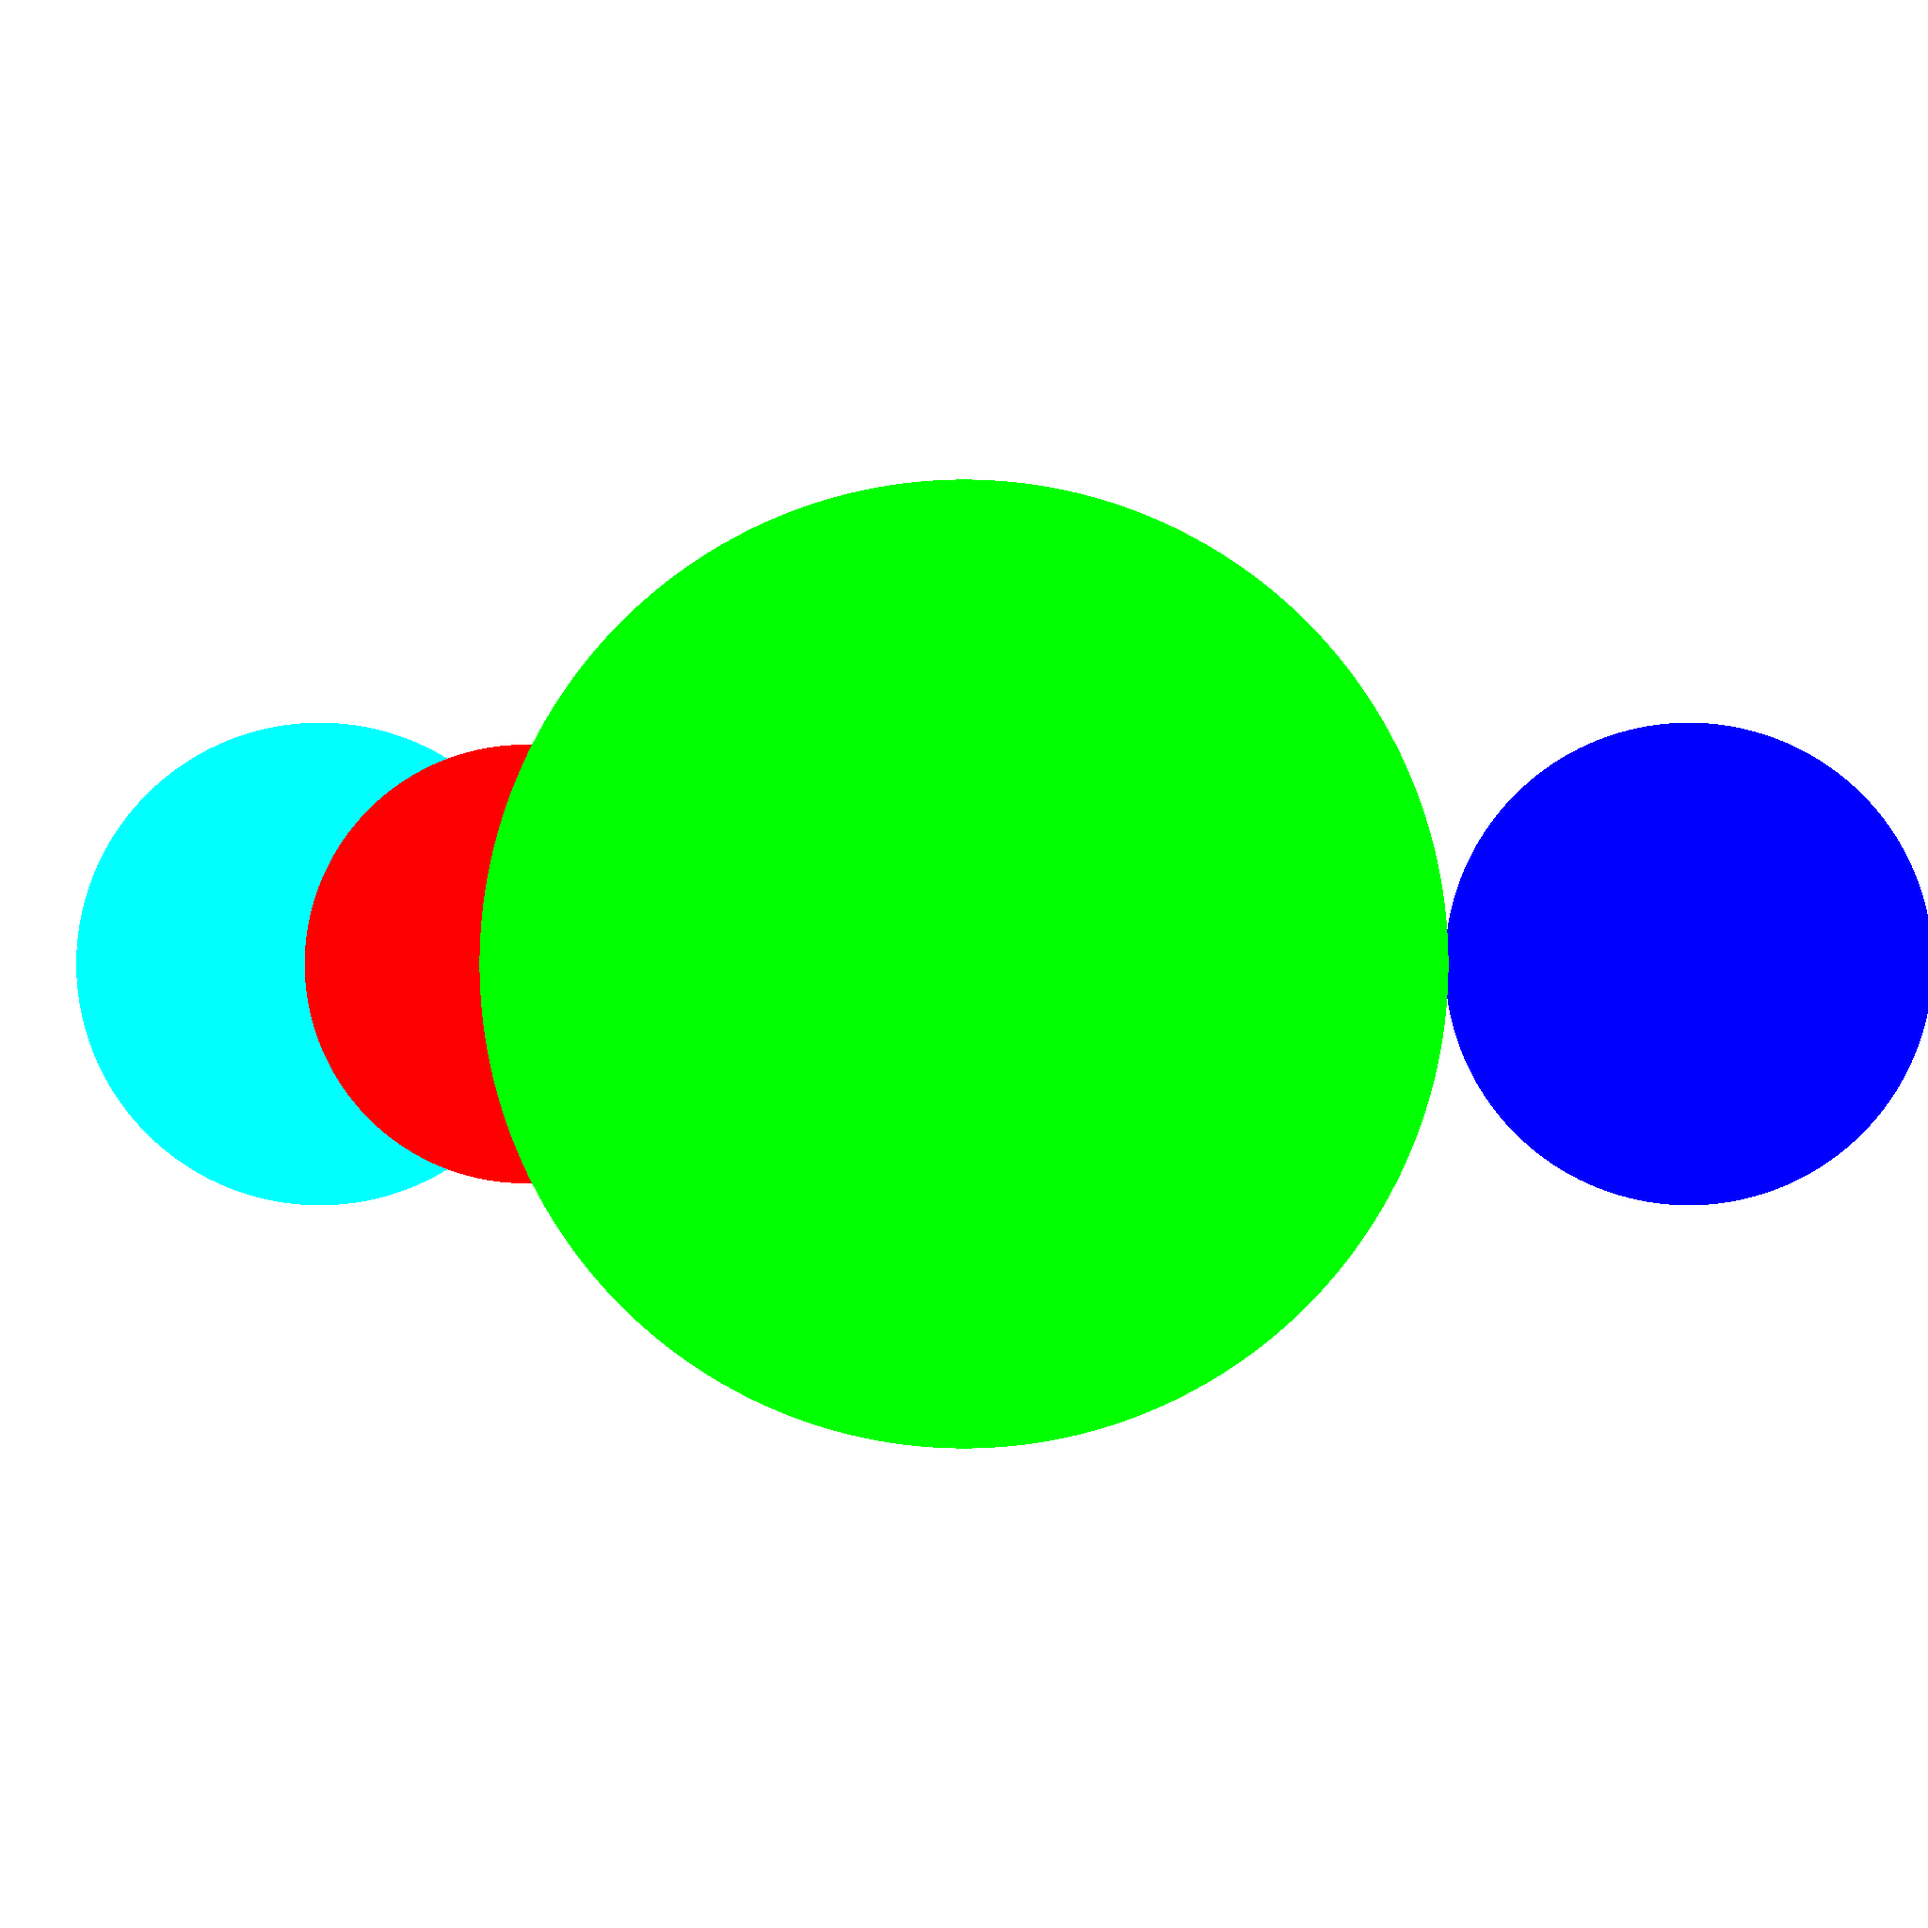
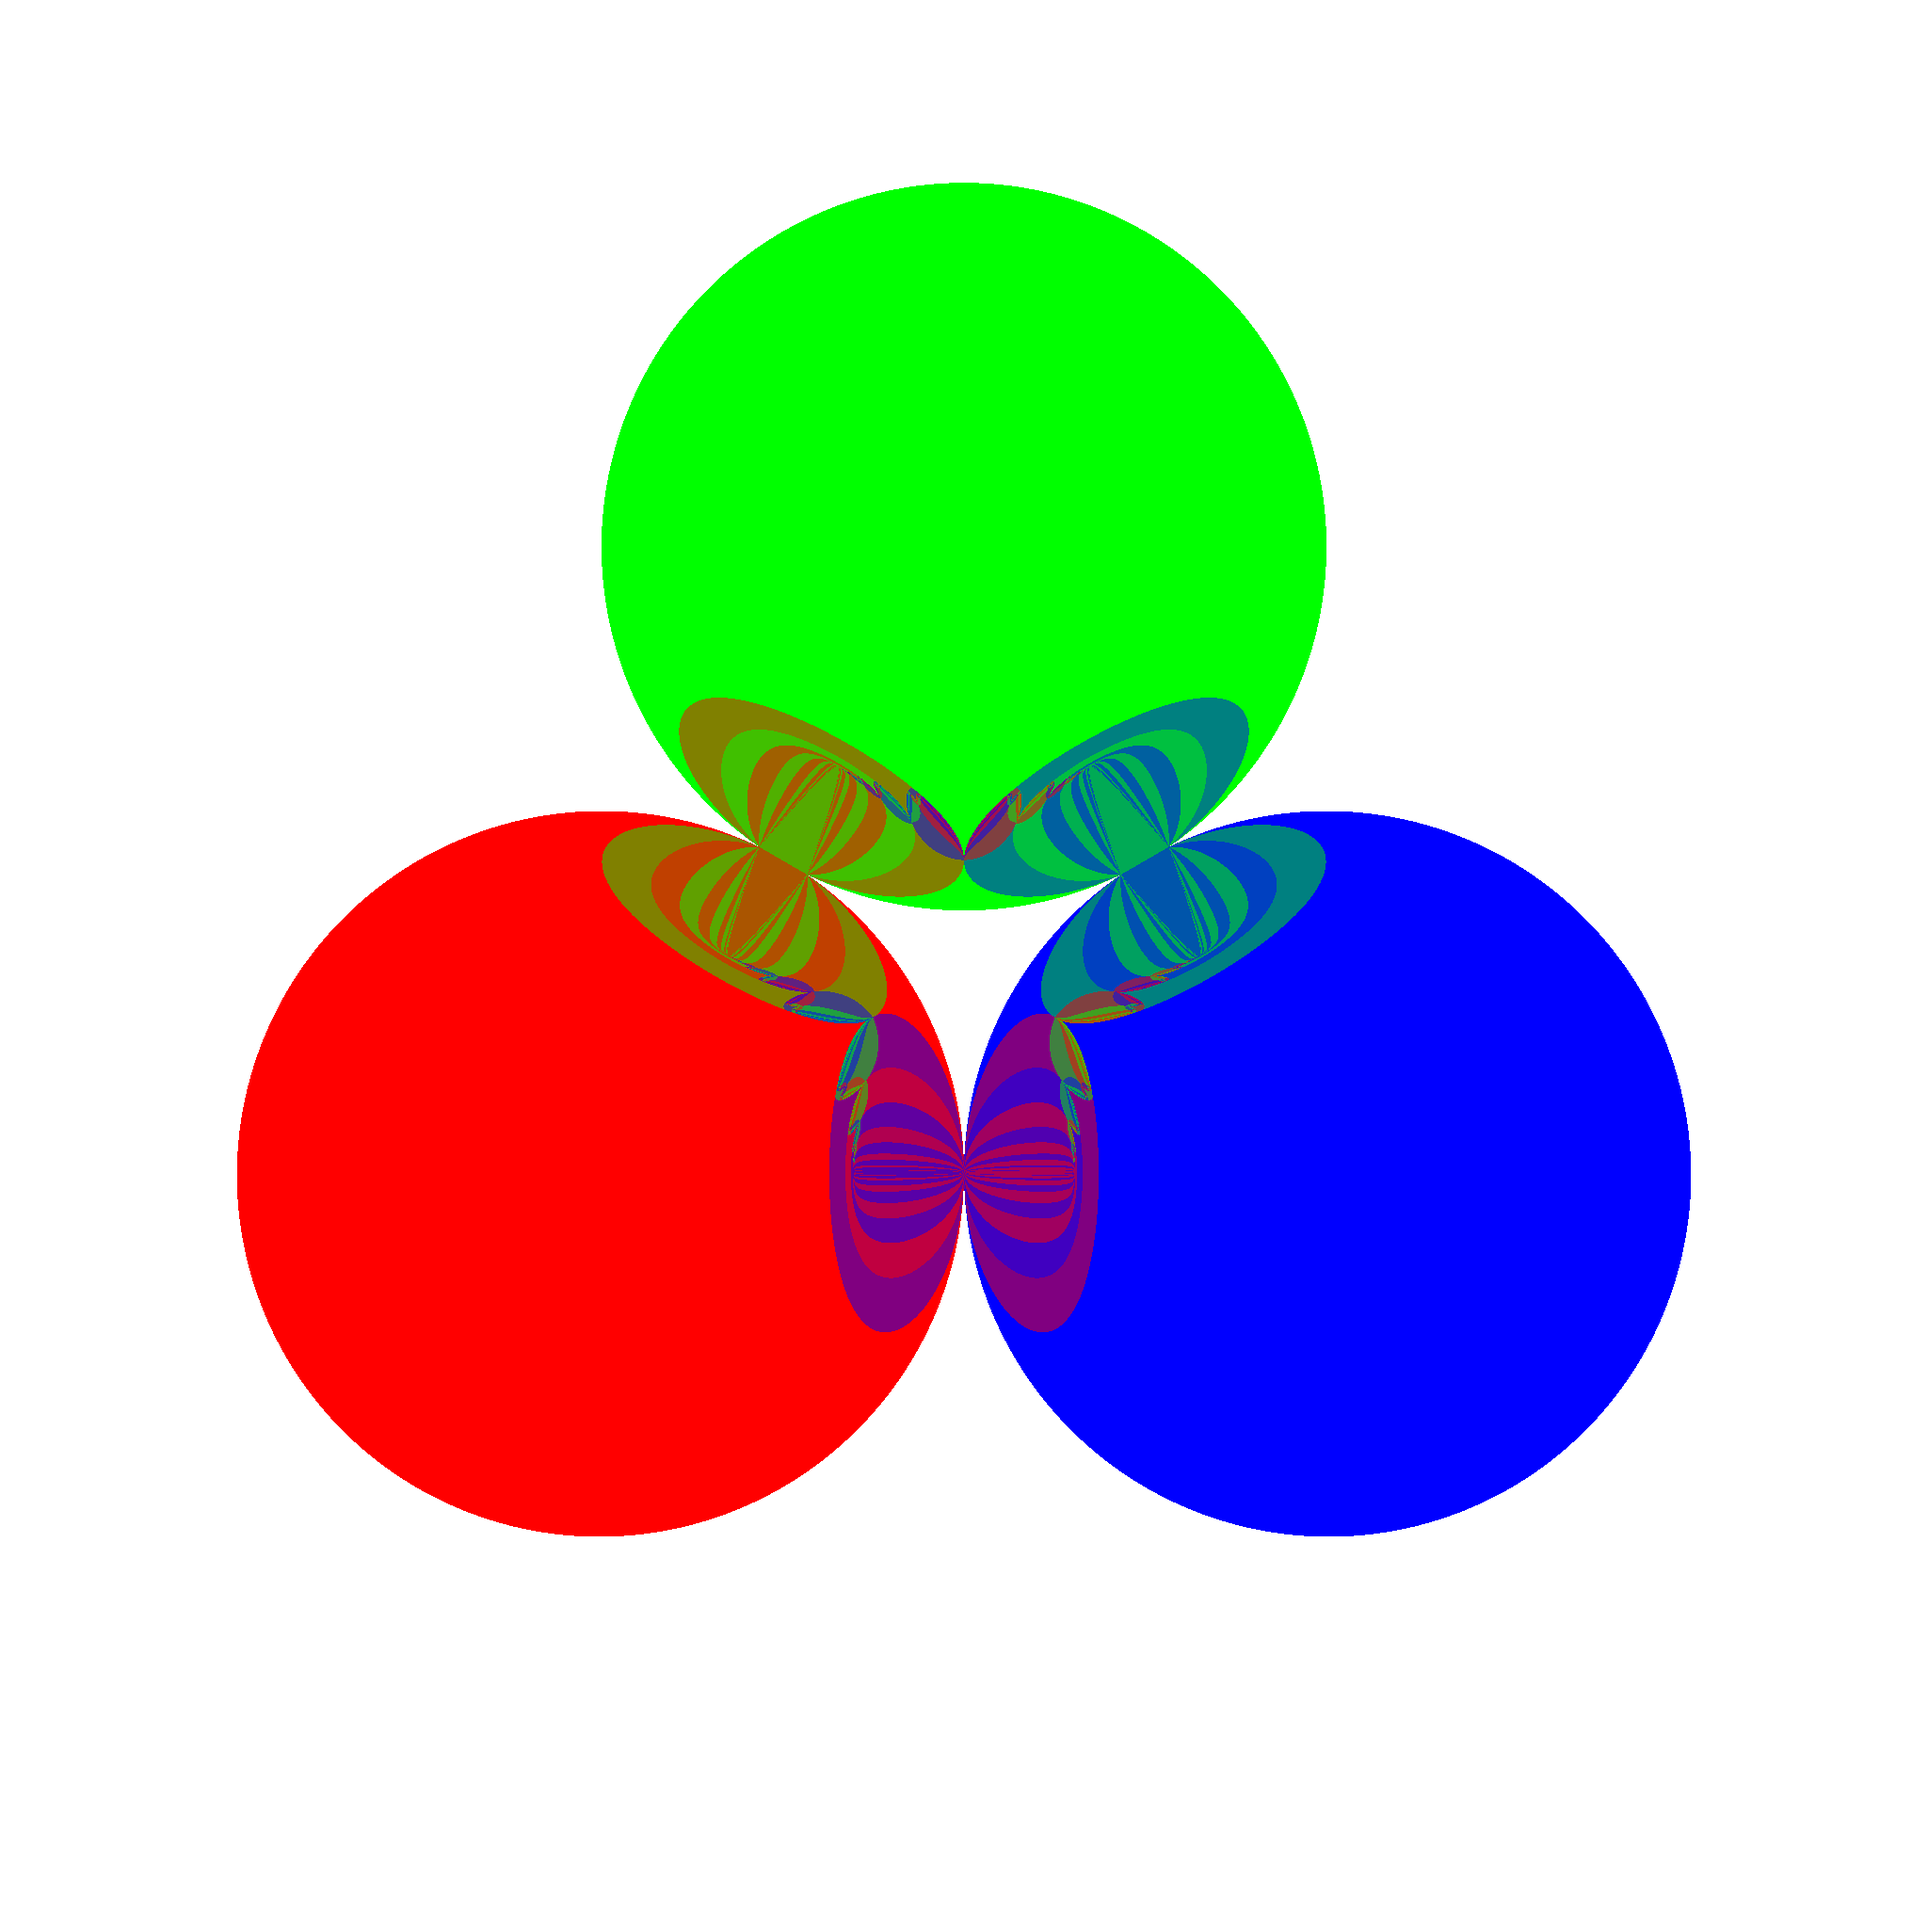
Ray Tracing

diff --git a/Camera.cs b/Camera.cs
@@ -11,7 +11,54 @@ namespace RenderEngine {
             resx = presx;
             resy = presy;
         }
-        public void Render(Sphere[] spheres) {
+
+        private Point NewTrace(Sphere[] spheres, Object viewplane, double offsetx, double offsety, Point closestpoint) {
+            List<Point> specular_points = new List<Point>();
+            Point specular_closestpoint = new Point(new Vector(double.PositiveInfinity,double.PositiveInfinity,double.PositiveInfinity), new Sphere(), Color.FromArgb(0,0,0,0));
+            Point control = specular_closestpoint;
+            Point test = specular_closestpoint;
+
+
+            for (int s = 0; s < spheres.Length; s++) {
+                Vector centervec = (new Vector(viewplane.origin.x - 1 + offsetx, viewplane.origin.y, viewplane.origin.z - 1 + offsety)-origin).reflectOn(closestpoint.origin-closestpoint.sphere.origin);
+
+
+
+                Ray ray = new Ray(closestpoint.origin, centervec);
+                Vector[] collisions = ray.Collides(spheres[s]);
+
+                
+
+                for (int c = 0; c < collisions.Length; c++) {
+
+                    if ((closestpoint.sphere.specular > 0 || closestpoint.sphere.specular < 1) && spheres[s] != closestpoint.sphere) {
+                        specular_points.Add(new Point(collisions[c], spheres[s], Color.FromArgb(255,
+                                                                                            Convert.ToInt16((Convert.ToDouble(closestpoint.color.R)+1)*(1-closestpoint.sphere.specular)+      (((Convert.ToDouble(spheres[s].color.R)+1)*closestpoint.sphere.specular)-1)),
+                                                                                            Convert.ToInt16((Convert.ToDouble(closestpoint.color.G)+1)*(1-closestpoint.sphere.specular)+      (((Convert.ToDouble(spheres[s].color.G)+1)*closestpoint.sphere.specular)-1)),
+                                                                                            Convert.ToInt16((Convert.ToDouble(closestpoint.color.B)+1)*(1-closestpoint.sphere.specular)+      (((Convert.ToDouble(spheres[s].color.B)+1)*closestpoint.sphere.specular)-1)))));
+                    }
+
+                    
+                }
+
+                
+
+            }
+            
+
+
+            specular_points.ForEach(point => {
+                if ((point.origin-closestpoint.origin).length < (specular_closestpoint.origin-closestpoint.origin).length && point.sphere != closestpoint.sphere) {
+                    specular_closestpoint = point;
+                }
+            });
+
+            if (specular_points.Count == 0 || specular_points[0].sphere == control.sphere) specular_closestpoint = closestpoint;
+
+            return specular_closestpoint;
+
+        }
+        public void Render(Sphere[] spheres, int raytracedepth) {
             Bitmap bitmap = new Bitmap(resx, resy, System.Drawing.Imaging.PixelFormat.Format32bppPArgb);
 
             
@@ -27,29 +74,48 @@ namespace RenderEngine {
             double offsetx = (maxsize-resx)/2*pixelsize+pixelsize/2;
             double offsety = (maxsize-resy)/2*pixelsize+pixelsize/2;
 
+            double percent = 0;
+
             for (int x = 0; x < resx; x++) {
-                if (x > 0) Console.Write(Math.Round(Convert.ToDouble(x)/Convert.ToDouble(resx-1)*10000)/100);
-                else Console.Write(0.00);
-                Console.WriteLine("%");
+                if (x > 0 && percent != Math.Ceiling(100.0/resx*x)) {
+                    percent = Math.Ceiling(100.0/resx*x);
+                    Console.Write(percent);
+                    if (percent == 69) Console.WriteLine("% nice");
+                    else Console.WriteLine("%");
+                }
+
                 for (int y = 0; y < resy; y++) {
                     
                     List<Point> points = new List<Point>();
-                    Point closestpoint = new Point(new Vector(double.PositiveInfinity,double.PositiveInfinity,double.PositiveInfinity), Color.FromArgb(0,0,0,0));
+                    Point closestpoint = new Point(new Vector(double.PositiveInfinity,double.PositiveInfinity,double.PositiveInfinity), new Sphere(), Color.FromArgb(0,0,0,0));
 
                     for (int s = 0; s < spheres.Length; s++) {
                         Ray ray = new Ray(origin, new Vector(viewplane.origin.x - 1 + offsetx, viewplane.origin.y, viewplane.origin.z - 1 + offsety)-origin);
                         Vector[] collisions = ray.Collides(spheres[s]);
 
                         for (int c = 0; c < collisions.Length; c++) {
-                            points.Add(new Point(collisions[c], spheres[s].color));
+                            points.Add(new Point(collisions[c], spheres[s], spheres[s].color));
                         }
                     }
+
                     
                     points.ForEach(point => {
                         if ((point.origin-origin).length < (closestpoint.origin-origin).length) {
                             closestpoint = point;
                         }
                     });
+
+                    
+
+                    // reflections
+
+                    for (int r = 0; r < raytracedepth; r++) {
+                        closestpoint = NewTrace(spheres, viewplane, offsetx, offsety, closestpoint);
+                    }
+
+                    
+
+                    // reflections
 
                     bitmap.SetPixel(x, resy - y - 1, closestpoint.color);
 

diff --git a/Program.cs b/Program.cs
@@ -4,16 +4,15 @@ namespace RenderEngine {
     class Program {
         static void Main() {
             DateTime time = DateTime.Now;
-            Sphere[] spheres = {new Sphere(new Vector(-2, 2, 0), 1, Color.FromArgb(255,255,0,0)), new Sphere(new Vector(-4, 10, 0), 1.5, Color.FromArgb(255,0,255,255)), new Sphere(new Vector(), 2, Color.FromArgb(255,0,255,0)), new Sphere(new Vector(3, 0, 0), 1, Color.FromArgb(255,0,0,255))};
+            Sphere[] spheres = {new Sphere(new Vector(-1.5, 0, -0.866), 1.5, 0.5, Color.FromArgb(255,255,0,0)),
+                                new Sphere(new Vector(0, 0, 1.722), 1.5, 0.5, Color.FromArgb(255,0,255,0)),
+                                new Sphere(new Vector(1.5, 0, -0.866), 1.5, 0.5, Color.FromArgb(255,0,0,255))};
 
             Camera camera = new Camera(new Vector(0, -20, 0), new Vector(1, 1, 1), new Vector(0, 0, 0), 500, 2048, 2048);
 
-            camera.Render(spheres);
+            camera.Render(spheres, 24);
+
             Console.WriteLine(DateTime.Now-time);
         }
     }
 }
-
-
-
-//Nähster Punkt => Grade(Punkt zu Licht) bei Schnitten mit anderen Kugeln => kein Licht, bei keinen schnitten, Winkel zum Spiegelvektor vergleichen(klein => hell)

diff --git a/Vector.cs b/Vector.cs
@@ -26,22 +26,23 @@ namespace RenderEngine {
             return new double[] {_x, _y, _z};
         }
         private void setLength(double plength) {
-            _x=_x*plength/length;
-            _y=_y*plength/length;
-            _z=_z*plength/length;
+            double newlength = plength/length;
+            x *= newlength;
+            y *= newlength;
+            z *= newlength;
         }
-        public double length{
+        public double length {
             get => Math.Sqrt(_x*_x + _y*_y + _z*_z); set => setLength(value);
         }
         public double dot(Vector to) {
             return _x*to.x+_y*to.y+_z*to.z;
         }
-        public double angle(Vetor to) {
-            return Math.Acos(dot(to)/(_length*to.length))/Math.PI;
+        public double angle(Vector to) {
+            return Math.Acos(dot(to)/(length*to.length))/Math.PI;
         }
         public Vector reflectOn(Vector on) {
             on.length = 1;
-            return this-on*dot(on)*2;
+            return this-on*this.dot(on)*2;
         }
         public static Vector operator +(Vector a, Vector b) {
             return new Vector(a.x+b.x, a.y+b.y, a.z+b.z);

diff --git a/Sphere.cs b/Sphere.cs
@@ -4,21 +4,28 @@ namespace RenderEngine {
     partial class Sphere {
         Vector _origin;
         double _radius;
+        double _specular;
         Color _color;
         public Sphere() {
             _origin = new Vector();
             _radius = 1;
+            _specular = 0;
+            _color = Color.FromArgb(0,0,0,0);
         }
-        public Sphere(Vector porigin, double pradius, Color pcolor) {
+        public Sphere(Vector porigin, double pradius, double pspecular, Color pcolor) {
             _origin = porigin;
             _radius = pradius;
             _color = pcolor;
+            _specular = pspecular;
         }
         public Vector origin {
             get => _origin; set => _origin = value;
         }
         public double radius {
             get => _radius; set => _radius = value;
+        }
+        public double specular {
+            get => _specular; set => _specular = value;
         }
         public Color color {
             get => _color; set => _color = value;

diff --git a/Point.cs b/Point.cs
@@ -3,17 +3,23 @@ using System.Drawing;
 namespace RenderEngine {
     partial class Point {
         Vector _origin;
+        Sphere _sphere;
         Color  _color;
         public Point() {
             _origin = new Vector();
             color = Color.FromArgb(0,0,0,0);
+            _sphere = new Sphere();
         }
-        public Point(Vector porigin, Color pcolor)  {
+        public Point(Vector porigin, Sphere psphere, Color pcolor)  {
             _origin = porigin;
             _color = pcolor;
+            _sphere = psphere;
         }
         public Vector origin{
             get => _origin; set => _origin = value;
+        }
+        public Sphere sphere{
+            get => _sphere; set => _sphere = value;
         }
         public Color color{
             get => _color; set => _color = value;
